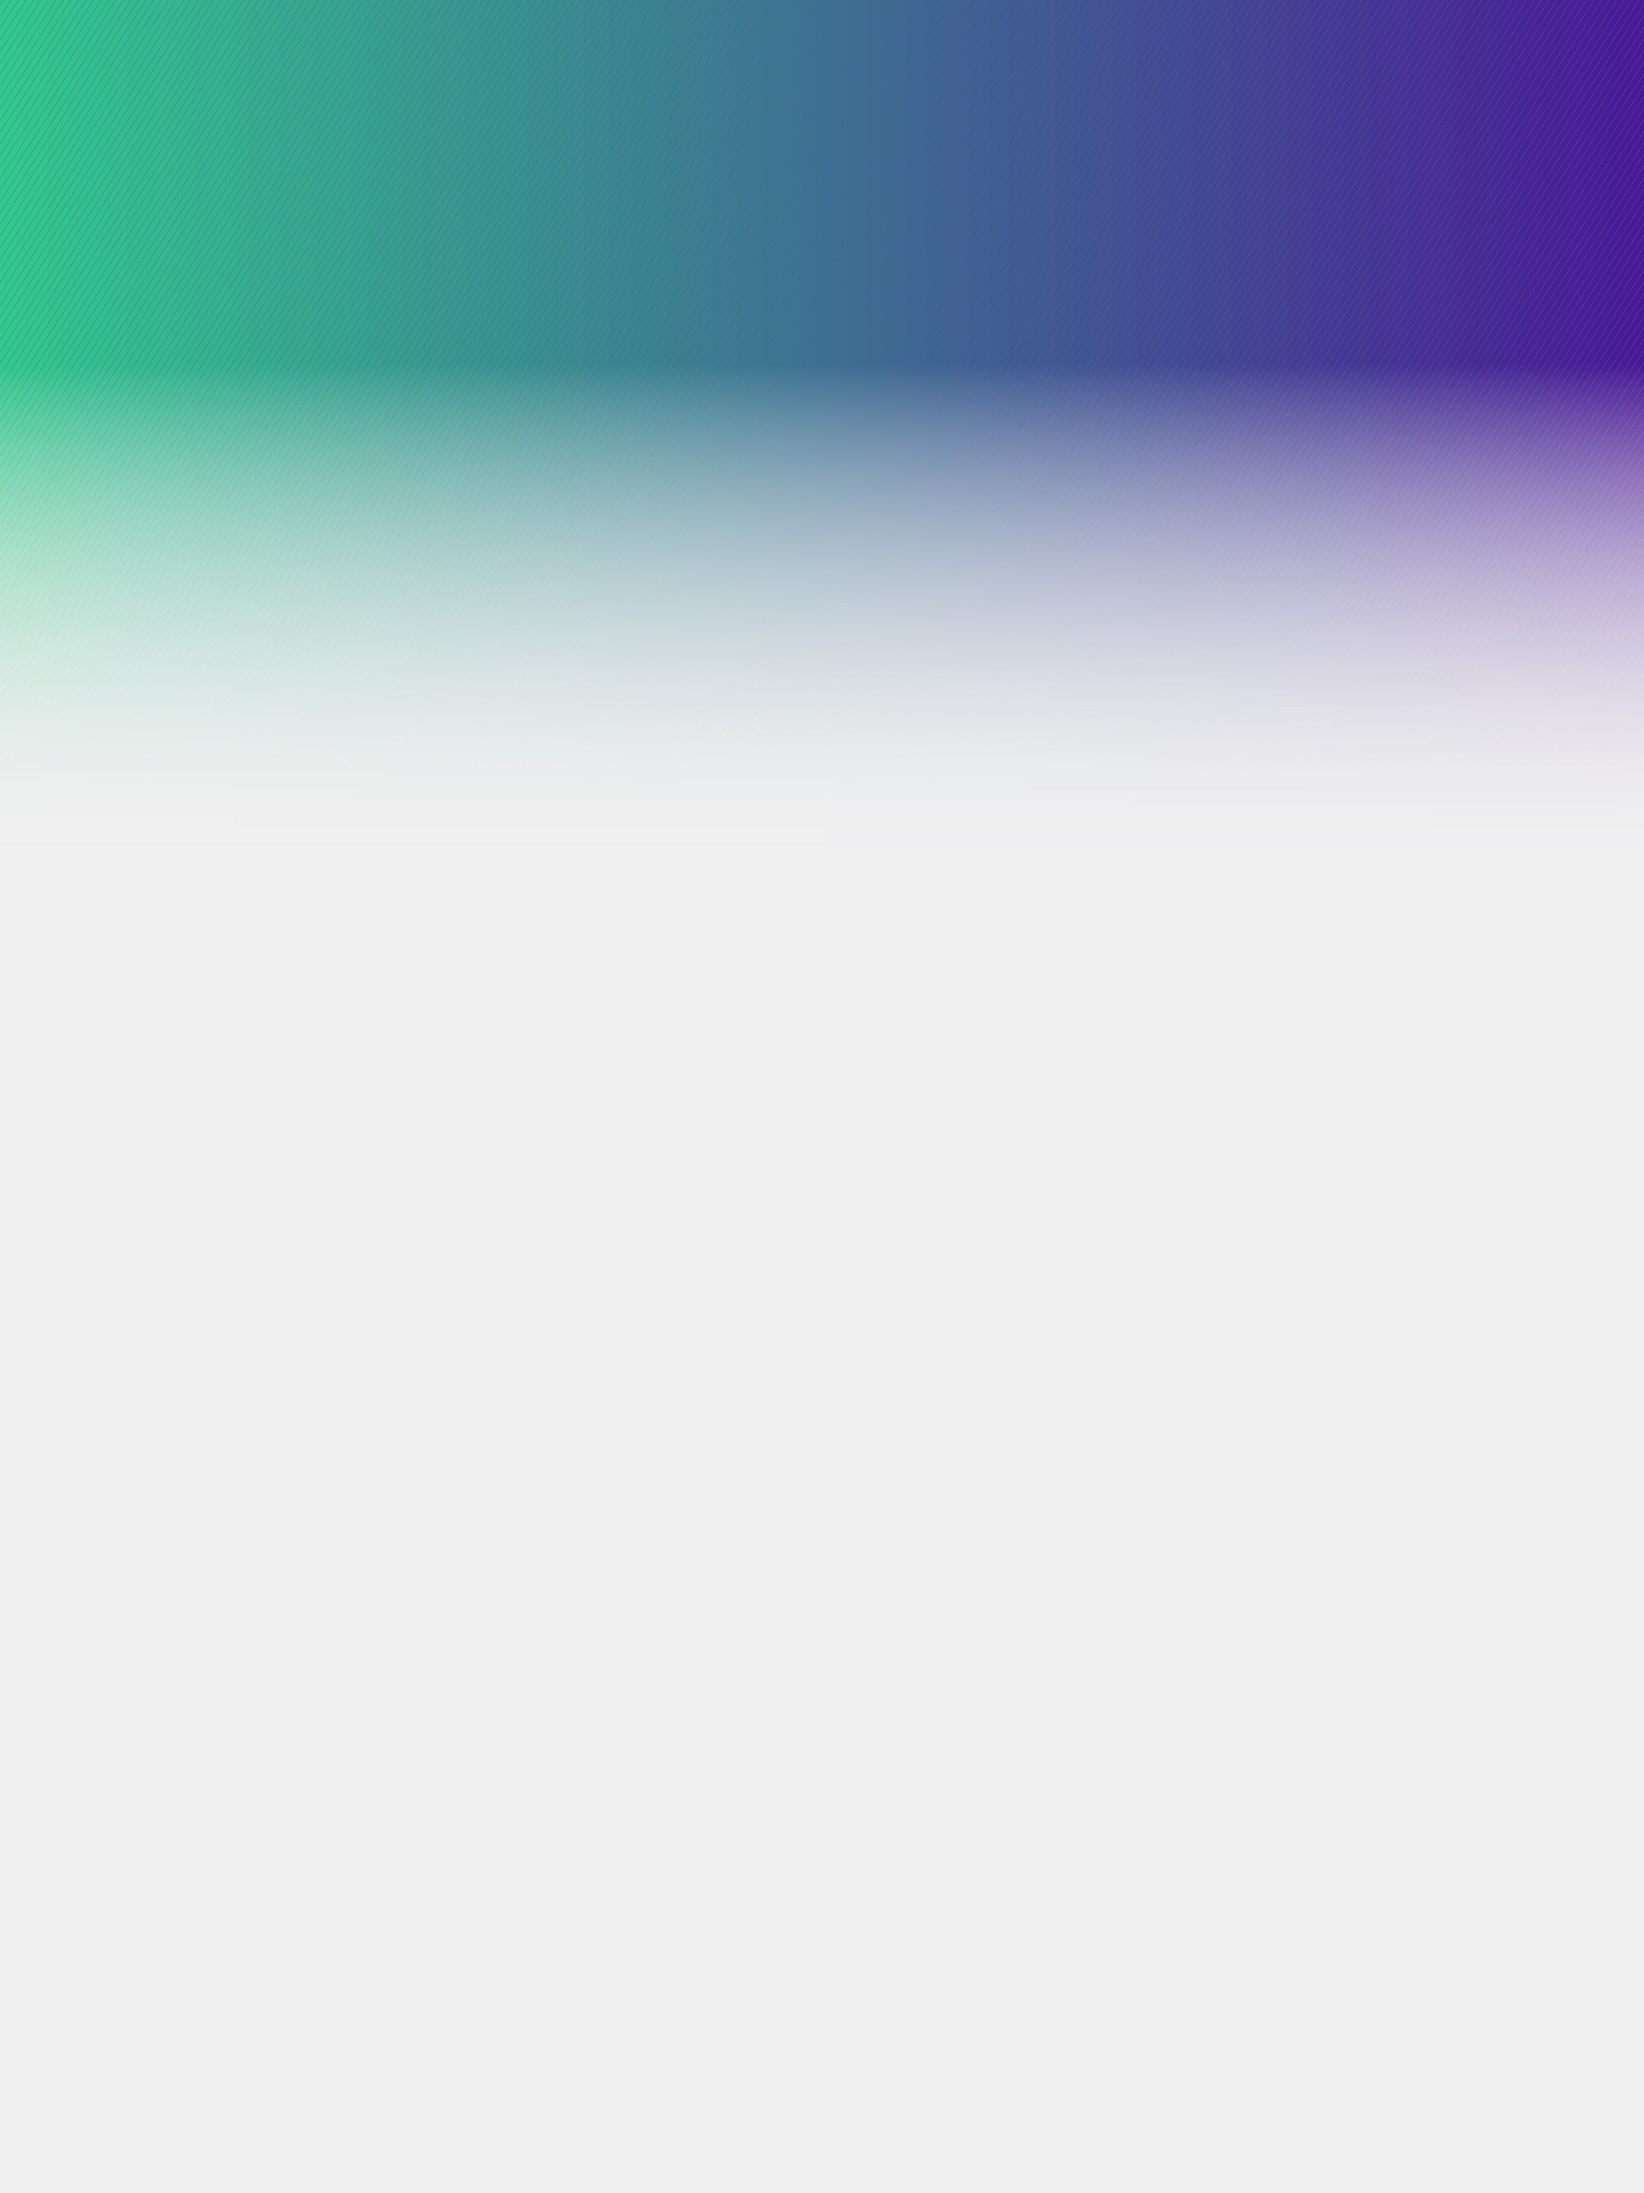
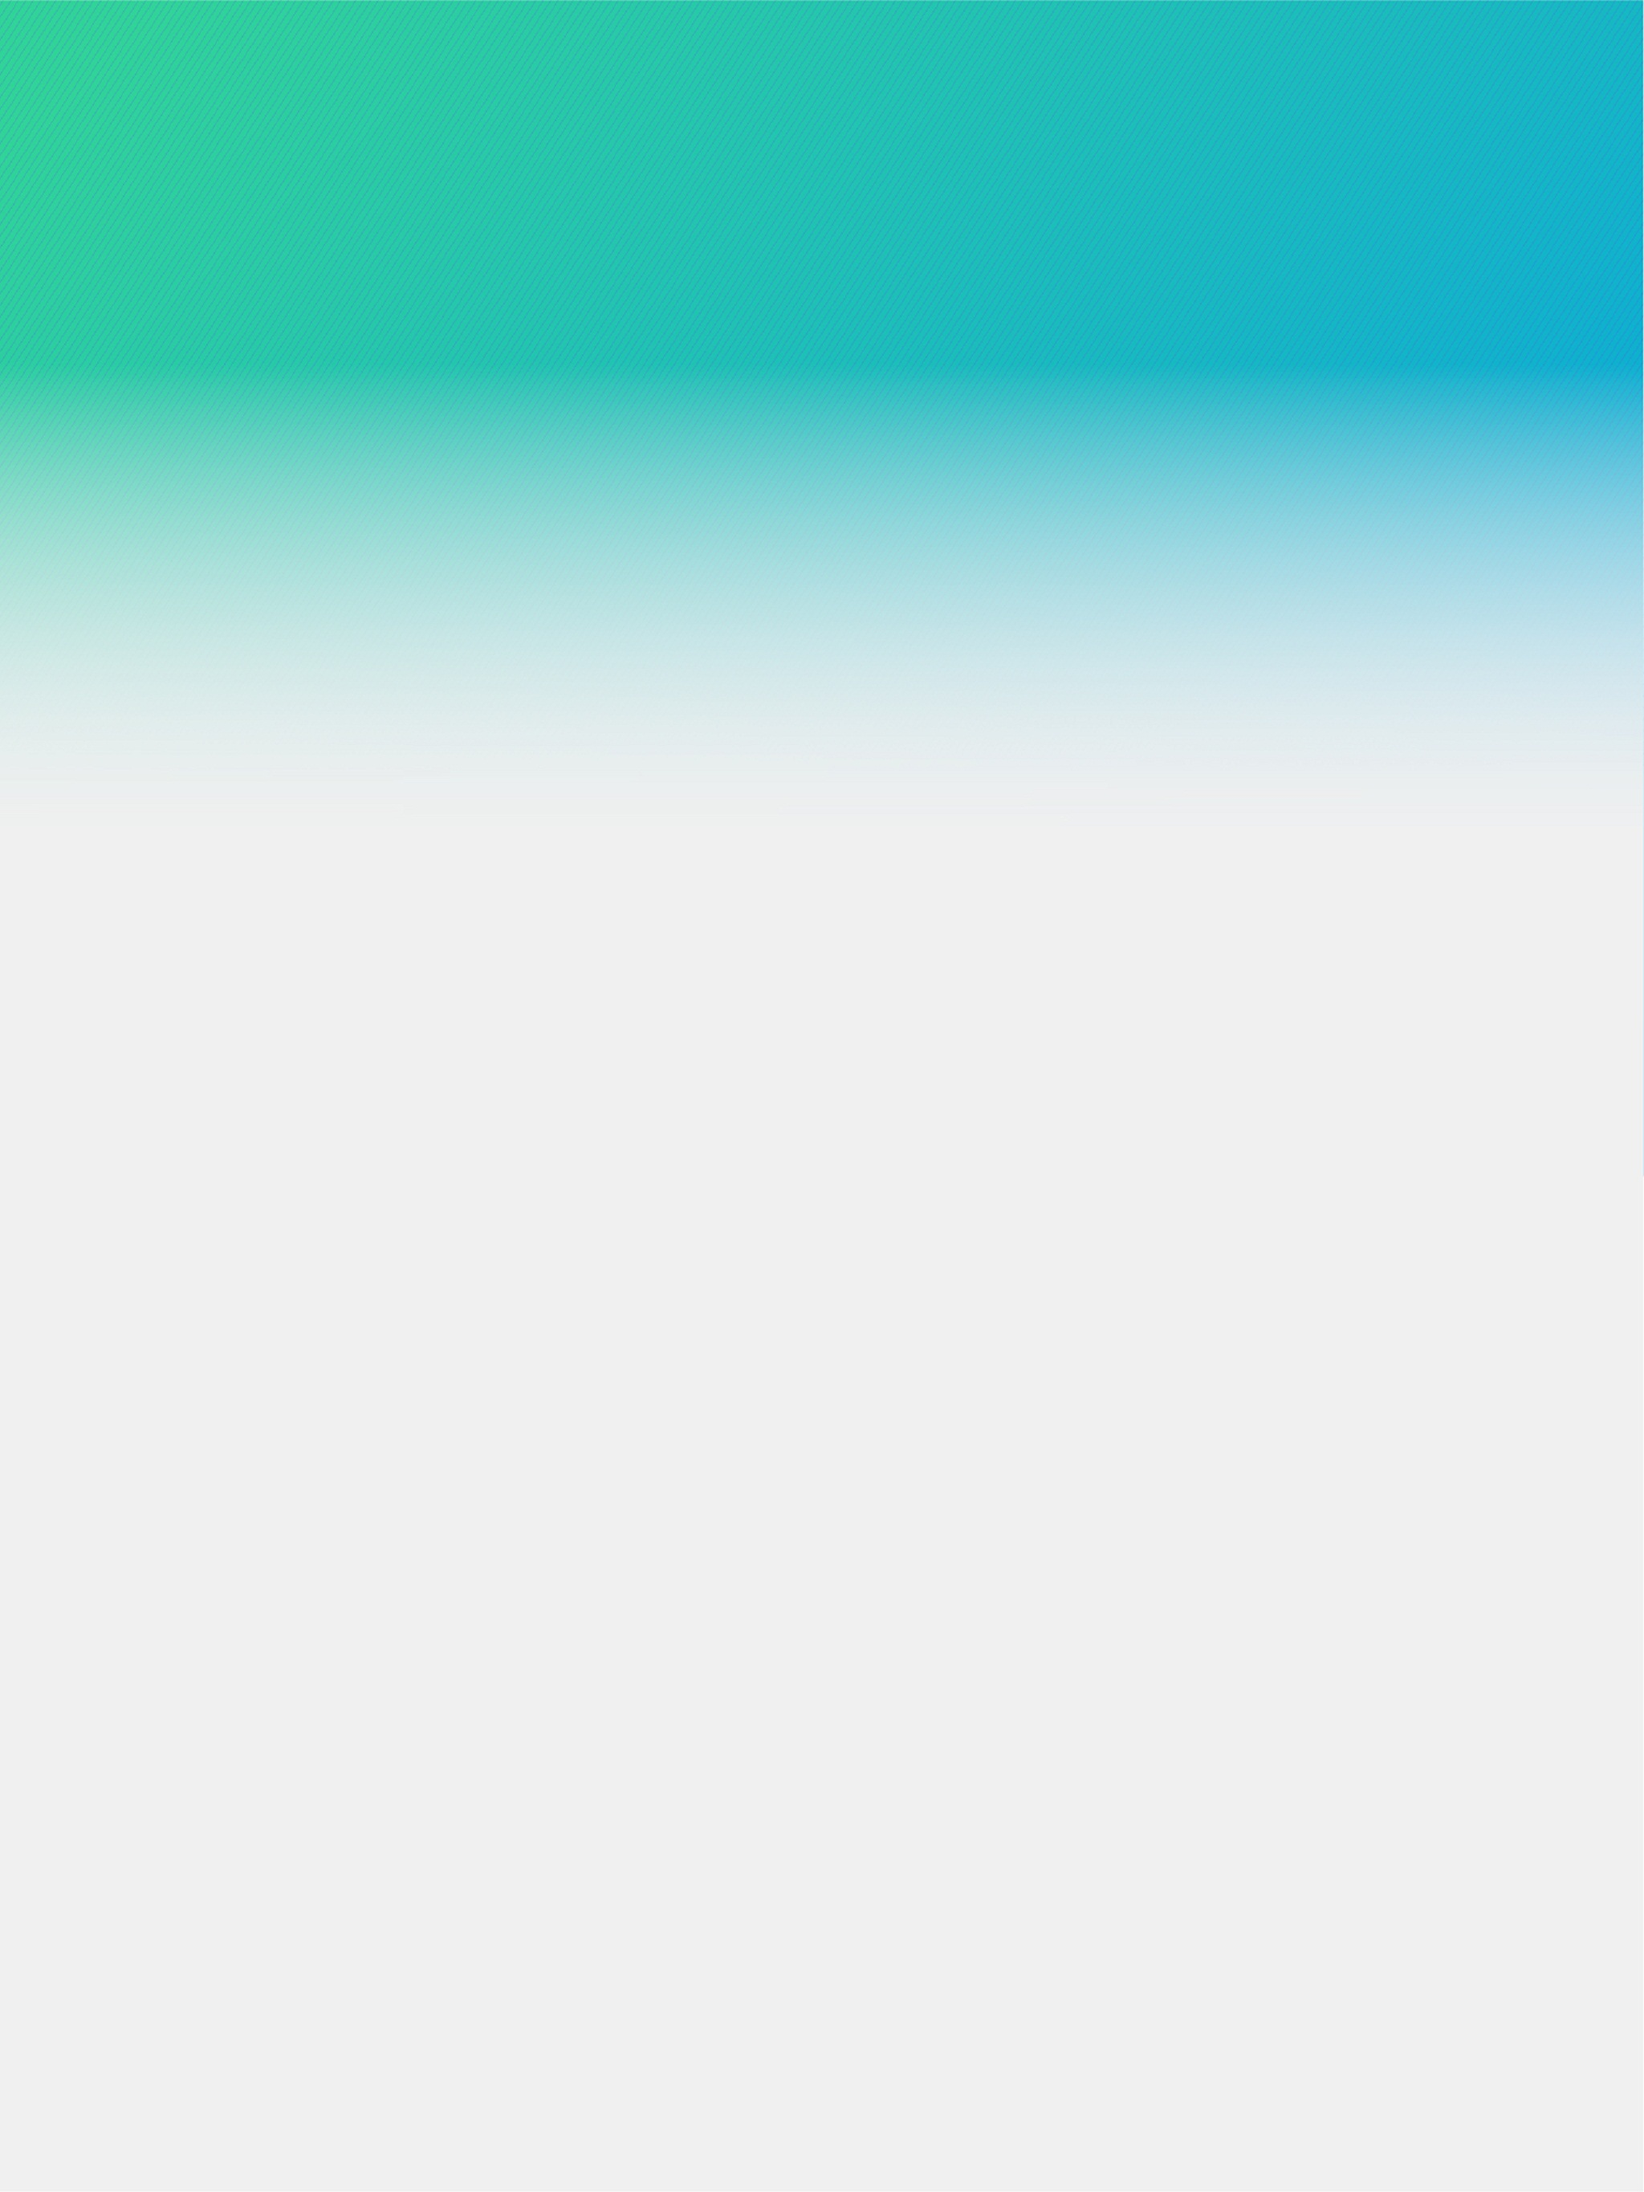
modify homepage css

Changed region(s): [[0.0, 0.0, 1.0, 0.3114]]

diff --git a/media/style/newhomepage.css b/media/style/newhomepage.css
@@ -236,9 +236,9 @@ input[type="text"], input[type="button"] ,input[type="submit"],select{
 .search-input:hover,
 .search-input:focus,
 .search-input:active {
-    color: rgb(72, 65, 231);
+    color: rgb(32, 183, 240);
     text-shadow: none;
-    border-color: rgb(72, 65, 231) !important;
+    border-color: rgb(32, 183, 240) !important;
 }
 .search form {
     margin-top: 5px;
@@ -247,16 +247,16 @@ input[type="text"], input[type="button"] ,input[type="submit"],select{
     height: 30px;
     vertical-align:top;
     background: transparent;
-    border: 1px solid rgb(72, 65, 231);
-    color: rgb(72, 65, 231);
+    border: 1px solid rgb(32, 183, 240);
+    color: rgb(32, 183, 240);
 }
 .search-news:hover,
 .search-news:focus,
 .search-news:active {
     color: #eee;
     text-shadow: none;
-    background-color: rgb(72, 65, 231);
-    border-color: rgb(72, 65, 231);
+    background-color: rgb(32, 183, 240);
+    border-color: rgb(32, 183, 240);
 }
 .usoft-listview-header
 {
@@ -269,7 +269,7 @@ input[type="text"], input[type="button"] ,input[type="submit"],select{
     background-color:rgb(245,79,81);
     height: 30px;
     width: 280px;
-    border-left: 10px solid rgb(72, 65, 231);
+    border-left: 10px solid rgb(32, 183, 240);
     border-top: 5px solid rgb(248,248,248);
     border-bottom: 5px solid rgb(248,248,248);
 }
@@ -290,7 +290,7 @@ input[type="text"], input[type="button"] ,input[type="submit"],select{
     line-height: 2em;
 }
 .usoft-listview-basic a {
-    color: rgb(72,63,210);
+    color: rgb(32, 183, 240);
 }
 .usoft-listview-basic li {
     list-style-type: none;
@@ -335,7 +335,7 @@ input[type="text"], input[type="button"] ,input[type="submit"],select{
 }
 .usoft-listview-more a {
     float: right;
-    color: rgb(72, 65, 231);
+    color: rgb(32, 183, 240);
     font-weight: normal;
     font-size: 10px;
     margin: 0px 15px 0px 0px;
@@ -371,7 +371,7 @@ input[type="text"], input[type="button"] ,input[type="submit"],select{
 .news-documents table {
 }
 .news-documents a {
-    color: rgb(72, 65, 231);
+    color: rgb(128,128,128);
 }
 
 #photocontainer{

diff --git a/media/style/common/new-base.css b/media/style/common/new-base.css
@@ -6,7 +6,7 @@ body {
     background-size: 100%;
 }
 a, h1,h2, h3 {
-    color: rgb(72, 65, 231);
+    color: rgb(32, 183, 240);
     font-family: "Microsoft YaHei", "Helvetica Neue", Helvetica, Arial, sans-serif, STHeiti, "LiHei Pro Medium", SimSun, SumHei;
 }
 a:hover, a:focus, a:active {
@@ -32,7 +32,7 @@ footer p {
     font-family:黑体;
     font-weight:bold;
     color: white;
-    font-size:54px;
+    font-size:44px;
     !important;
 }
 .navbar-inner {
@@ -66,7 +66,7 @@ footer p {
 }
 
 #footer-links {
-    background: rgb(72, 65, 231);
+    background: rgb(32, 183, 240);
     height:150px;
     padding-left: 15px;
     padding-right: 15px;

diff --git a/media/style/masonry.css b/media/style/masonry.css
@@ -243,7 +243,7 @@
     text-align:left;
     margin-top:5px;
     margin-bottom:2px;
-    color:rgb(72, 65, 231);
+    color:rgb(32, 183, 240);
 }
 p.title {
     font-weight: 100;
